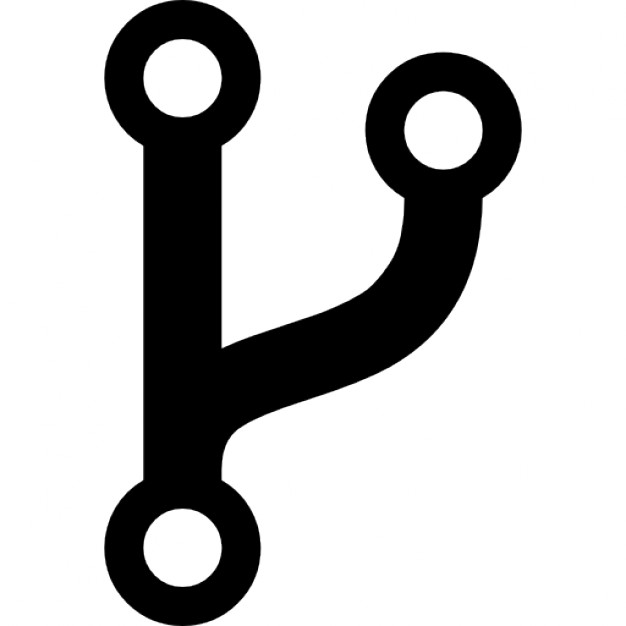
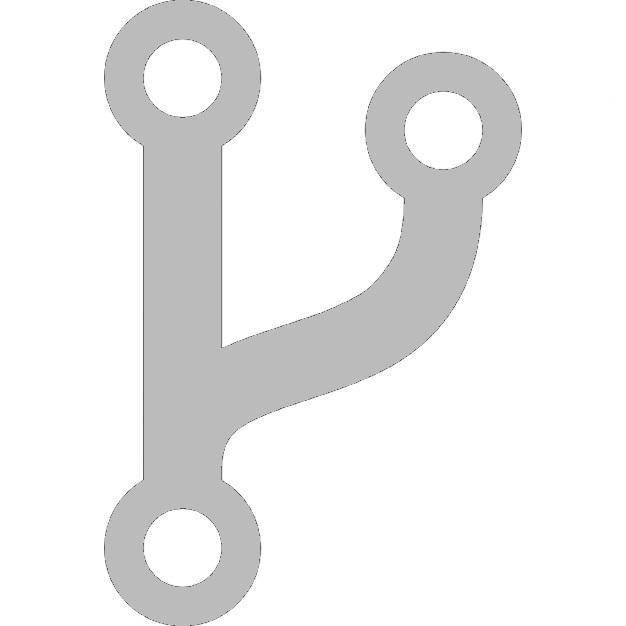
completely finished with left section of main content

Changed region(s): [[0.1518, 0.0, 0.8498, 1.0]]

diff --git a/index.html b/index.html
@@ -123,28 +123,27 @@
                   <button class="close-news">&#10006;</button>
                 </div>
                 <li class="check-item">
-                  <a href="#">
+                  <a href="index.html">
                     <span class="check-sumbol">&#x2714;</span>
                     <img src="https://robohash.org/#.png" class="content-avatar">
                     <span class="menu-user-name content"></span>
                   </a>
                 </li>
                 <li class="check-item">
-                  <a href="#">
+                  <a href="https://github.com/orgs/cursor-education/dashboard">
                     <span class="check-sumbol hidden-symbol">&#x2714;</span>
                     <img src="img/logo-cursor.png" alt="cursor-logo" class="menu-logo">
                     <span>cursor-education</span>
                   </a>
                 </li>
                 <li>
-                  <a href="#">
+                  <a href="https://github.com/settings/organizations">
                     <img src="img/support-menu.png" alt="support-logo" class="support-menu-logo">
                     Manage organization
                   </a>
                 </li>
-                <!-- <li role="separator" class="divider"></li> -->
                 <li>
-                  <a href="#">
+                  <a href="https://github.com/account/organizations/new">
                     <span class="plus-symbol">&#10010;</span>
                     Create organization
                   </a>
@@ -156,8 +155,7 @@
             <div class="dashboard">
             <div class="icon-button-dashboard-wrapper clearfix">
               <img alt="support" src="img/support.png" class="support-icon">
-              <button class="close-news">X</button>
-              
+              <button class="close-news">&#10006;</button>
             </div>
               <div class="dashboard-menu-wrapper">
                 <h2 class="dashboard-header">You’ve been added to the cursor-education organization!</h2>
@@ -181,25 +179,25 @@
                 <div class="commits-panel panel-body">
                   <img src="img/fork-symbol.jpg" alt="fork-symbol" class="fork-symbol">
                   <span class="panel-text">
-                    User <a href="#" class="text-link"><span class="menu-user-name content"></span></a> forked <a href="#" class="text-link">This repository</a> to <a href="#" class="text-link">Other repository</a>
+                    User <a href="index.html" class="text-link"><span class="menu-user-name content"></span></a> forked <a href="#" class="text-link">This repository</a> to <a href="#" class="text-link">Other repository</a>
                   </span> on <span class="forked-date"></span>
                 </div>
                 <div class="commits-panel panel-body">
                   <img src="img/fork-symbol.jpg" alt="fork-symbol" class="fork-symbol">
                   <span class="panel-text">
-                    User <a href="#" class="text-link"><span class="menu-user-name content"></span></a> forked <a href="#" class="text-link">This repository</a> to <a href="#" class="text-link">Other repository</a>
+                    User <a href="index.html" class="text-link"><span class="menu-user-name content"></span></a> forked <a href="#" class="text-link">This repository</a> to <a href="#" class="text-link">Other repository</a>
                   </span> on <span class="forked-date"></span>
                 </div>
                 <div class="commits-panel panel-body">
                   <img src="img/fork-symbol.jpg" alt="fork-symbol" class="fork-symbol">
                   <span class="panel-text">
-                    User <a href="#" class="text-link"><span class="menu-user-name content"></span></a> forked <a href="#" class="text-link">This repository</a> to <a href="#" class="text-link">Other repository</a>
+                    User <a href="index.html" class="text-link"><span class="menu-user-name content"></span></a> forked <a href="#" class="text-link">This repository</a> to <a href="#" class="text-link">Other repository</a>
                   </span> on <span class="forked-date"></span>
                 </div>
                 <div class="commits-panel panel-body">
                   <img src="img/fork-symbol.jpg" alt="fork-symbol" class="fork-symbol">
                   <span class="panel-text">
-                    User <a href="#" class="text-link"><span class="menu-user-name content"></span></a> forked <a href="#" class="text-link">This repository</a> to <a href="#" class="text-link">Other repository</a>
+                    User <a href="index.html" class="text-link"><span class="menu-user-name content"></span></a> forked <a href="#" class="text-link">This repository</a> to <a href="#" class="text-link">Other repository</a>
                   </span> on <span class="forked-date"></span>
                 </div>
               </div>

diff --git a/style/main.css b/style/main.css
@@ -133,6 +133,8 @@
 
 /*Button with user menu end*/
 
+/*Dashboard start*/
+
 .dashboard {
   border: solid 1px #d8d8d8;
   margin-top: 15px;
@@ -153,21 +155,22 @@
   margin: 0 0 0 45px;
   font-size: 18px;
 }
+
 .close-news {
   float: right;
-    padding: 0;
-    background: transparent;
-    border: 0;
-    outline: none;
+  padding: 0;
+  background: transparent;
+  border: 0;
+  outline: none;
 }
 
 .dashboard-menu-wrapper {
   margin-left: 10px;
-  }
+}
 
 .dashboard-paragraph {
   margin: 10px 0 10px 45px;
-  }
+}
 
 .dashboard-menu-list {
   margin-left: 20px; 
@@ -175,26 +178,17 @@
 
 .inset-picture {
   float: right;
-    margin-bottom: 15px;
-    margin-left: 20px;
+  margin-bottom: 15px;
+  margin-left: 20px;
 }
-
 
 .news-list-item {
   margin-bottom: 10px;
 }
 
+/*Dashboard end*/
 
-
-
-
-
-
-
-
-
-
-
+/*Forked repo start*/
 
 .panel.panel-default {
   border: none;
@@ -219,14 +213,12 @@
 }
 
 .forked-date {
-  color: grey;
+  color: #BBBBBB;
 }
 
+/*Forked repo end*/
 
-
-
-
-
+/*Information part start*/
 
 .textinfo {
   text-align: center;
@@ -249,3 +241,7 @@
 .link-wrapper {
   margin-top: 15px;
 }
+
+/*Information part end*/
+
+
